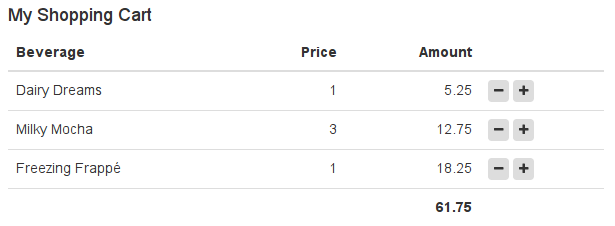
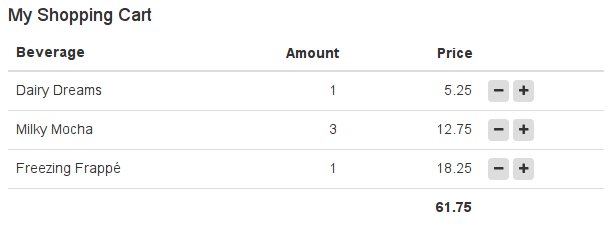
(#230) documentation: fixed example in *Widgets and Activities* manual

Changed region(s): [[0.4634, 0.1858, 0.5561, 0.2788], [0.6797, 0.2168, 0.7724, 0.2788]]

diff --git a/CHANGELOG.md b/CHANGELOG.md
@@ -2,6 +2,7 @@
 
 ## Last Changes
 
+- [#230](https://github.com/LaxarJS/laxar/issues/230): documentation: fixed example in *Widgets and Activities* manual
 - [#223](https://github.com/LaxarJS/laxar/issues/223): documentation: explain tooling with the new grunt tasks
 - [#228](https://github.com/LaxarJS/laxar/issues/228): documentation: documented writing widget controller for specific technologies
 - [#229](https://github.com/LaxarJS/laxar/issues/229): adapters: added axFeatures as injection for angular widgets

diff --git a/docs/manuals/widgets_and_activities.md b/docs/manuals/widgets_and_activities.md
@@ -183,8 +183,8 @@ For anyone familiar with Bootstrap and AngularJS, most of this should not be a s
    <thead>
    <tr>
       <th>Beverage</th>
-      <th class="cart-price">Price</th>
-      <th class="cart-amount">Amount</th>
+      <th class="cart-amount">Price</th>
+      <th class="cart-price">Amount</th>
       <th></th>
    </tr>
    </thead>
